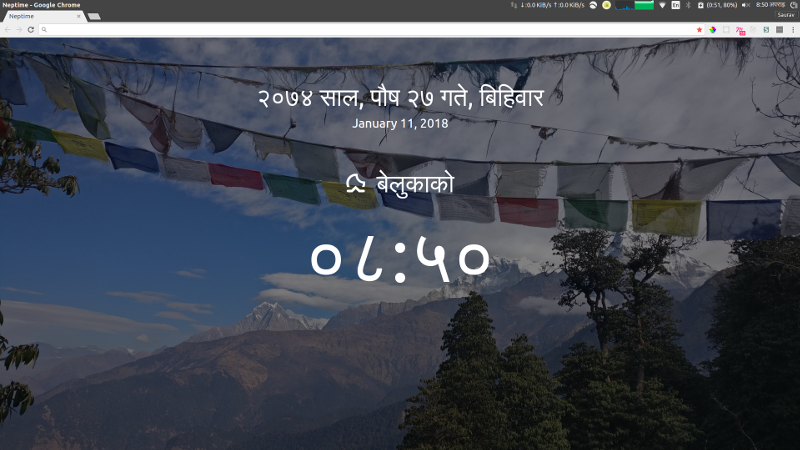
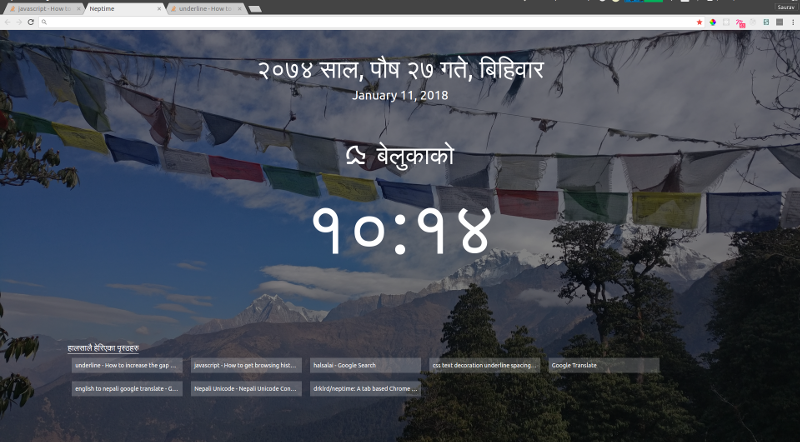
add recent visited pages

diff --git a/src/index.js b/src/index.js
@@ -8,6 +8,7 @@ import Radium, {StyleRoot} from 'radium';
 import Nepalize from './lib';
 
 const images = 3;
+const recentPageToView = 10;
 const imageIndex = Math.floor(Math.random() * images);
 const styles = {
     pulse: {
@@ -15,6 +16,13 @@ const styles = {
         animationName: Radium.keyframes(pulse, 'pulse')
     }
 };
+
+let recentlyVisitedSites;
+
+chrome.history.search({text: '', maxResults: recentPageToView}, (data)=> {
+    recentlyVisitedSites = data.filter((page)=>page.title);
+    ReactDOM.render(<App/>,document.getElementById("app"));
+});
 
 class App extends React.Component{
 
@@ -65,7 +73,17 @@ class App extends React.Component{
 	        year : `${nepaliDateObj.year} साल, `,
             month : `${nepaliDateObj.strMonth} ${nepaliDateObj.day} गते, ` ,
             day : `${nepaliDateObj.strDayOfWeek} `
-        }
+        };
+	    const recentPages = recentlyVisitedSites.map((page,index)=>{
+	        return(
+                <div className="col-xs-2 page" key={index}>
+                    <a href={page.url} target="_blank">
+                        { page.title }
+                    </a>
+
+                </div>
+            );
+        });
 		return(
 			<div>
                 <img src={`img/nepal${imageIndex}.jpg`} alt="Background Image" className="background-image"/>
@@ -106,10 +124,19 @@ class App extends React.Component{
                             </span>
                         </div>
                     </div>
+                    <div className="row margin-pages ">
+
+                        <div className="col-xs-offset-1 col-xs-10">
+                            <span className="recently">
+                                हालसालै हेरिएका पृस्ठहरु
+                            </span>
+                            <br/>
+                            { recentPages }
+                        </div>
+                    </div>
                 </div>
+
 			</div>
 		)
 	}
 }
-
-ReactDOM.render(<App/>,document.getElementById("app"));

diff --git a/css/custom.css b/css/custom.css
@@ -24,7 +24,7 @@ img {
 .contents{
 	width : 100%;
 	position: absolute;
-	top : 10%;
+	top : 5%;
 	color: #ffffff;
 	z-index: 1000;
 }
@@ -47,4 +47,35 @@ img {
 
 .margin-date{
 	margin-top: 80px;
+}
+
+.margin-pages{
+	margin-top: 150px;
+}
+
+.page{
+	padding : 8px;
+	background-color: rgba(255,255,255,0.2);
+	margin : 10px;
+	text-overflow: ellipsis;
+	display: block;
+	white-space: nowrap;
+	overflow: hidden;
+	cursor: pointer;
+}
+
+.page:hover{
+	background-color: rgba(255,255,255,0.5);
+}
+
+a{
+	text-decoration: none !important;
+	color : #ffffff;
+}
+
+
+.recently{
+	font-size: 20px;
+	border-bottom: 1px solid #ffffff;
+	padding-bottom: 3px;
 }
